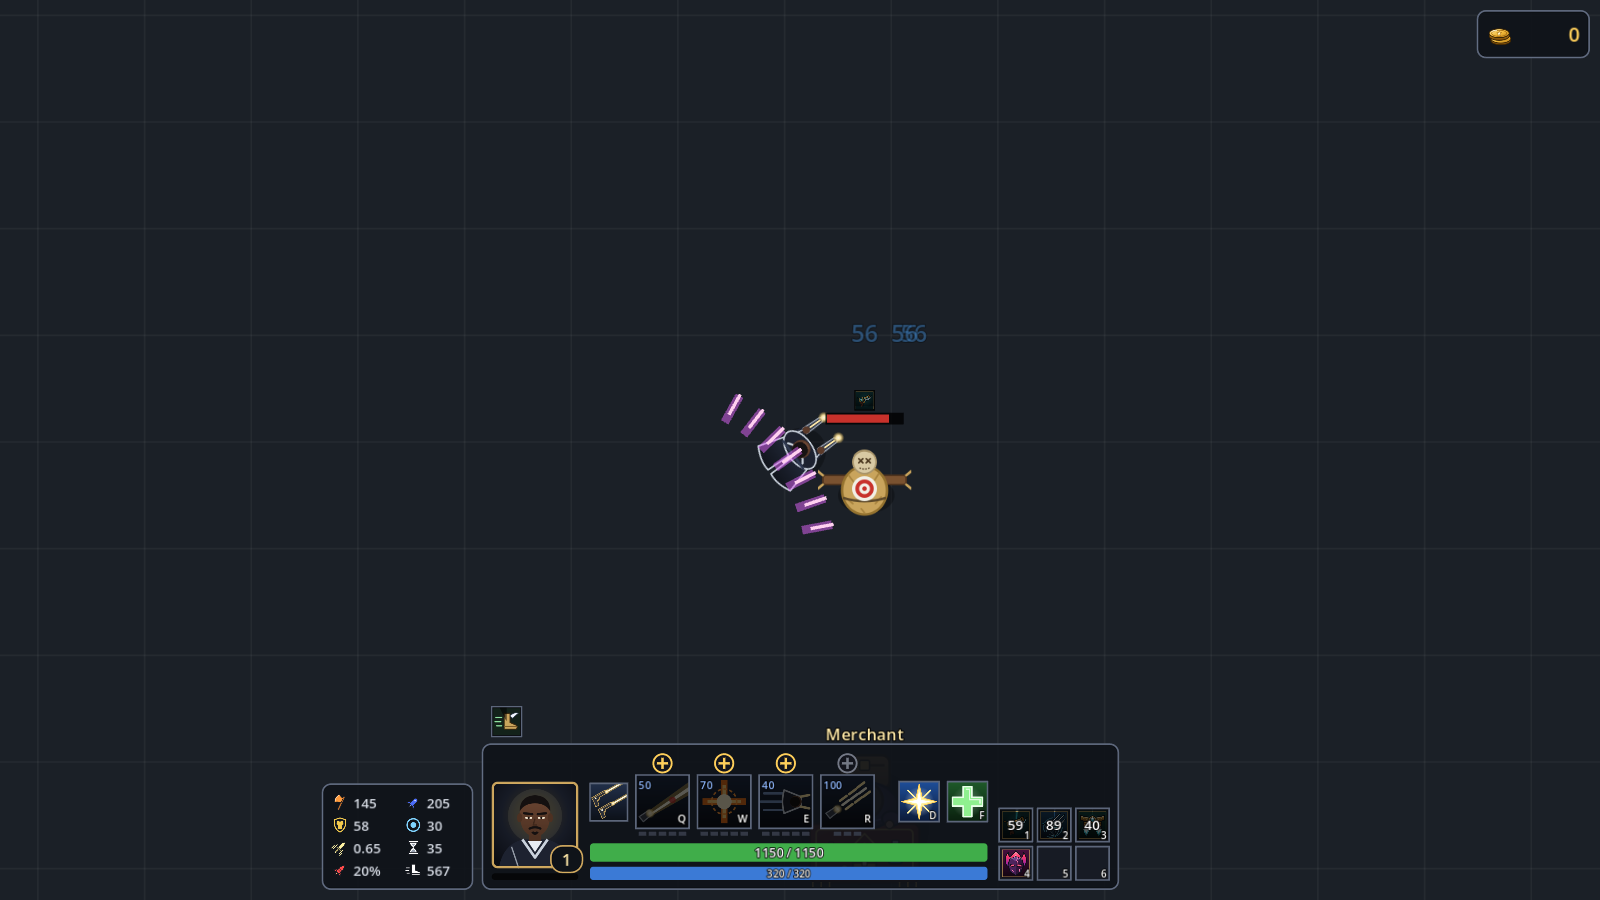
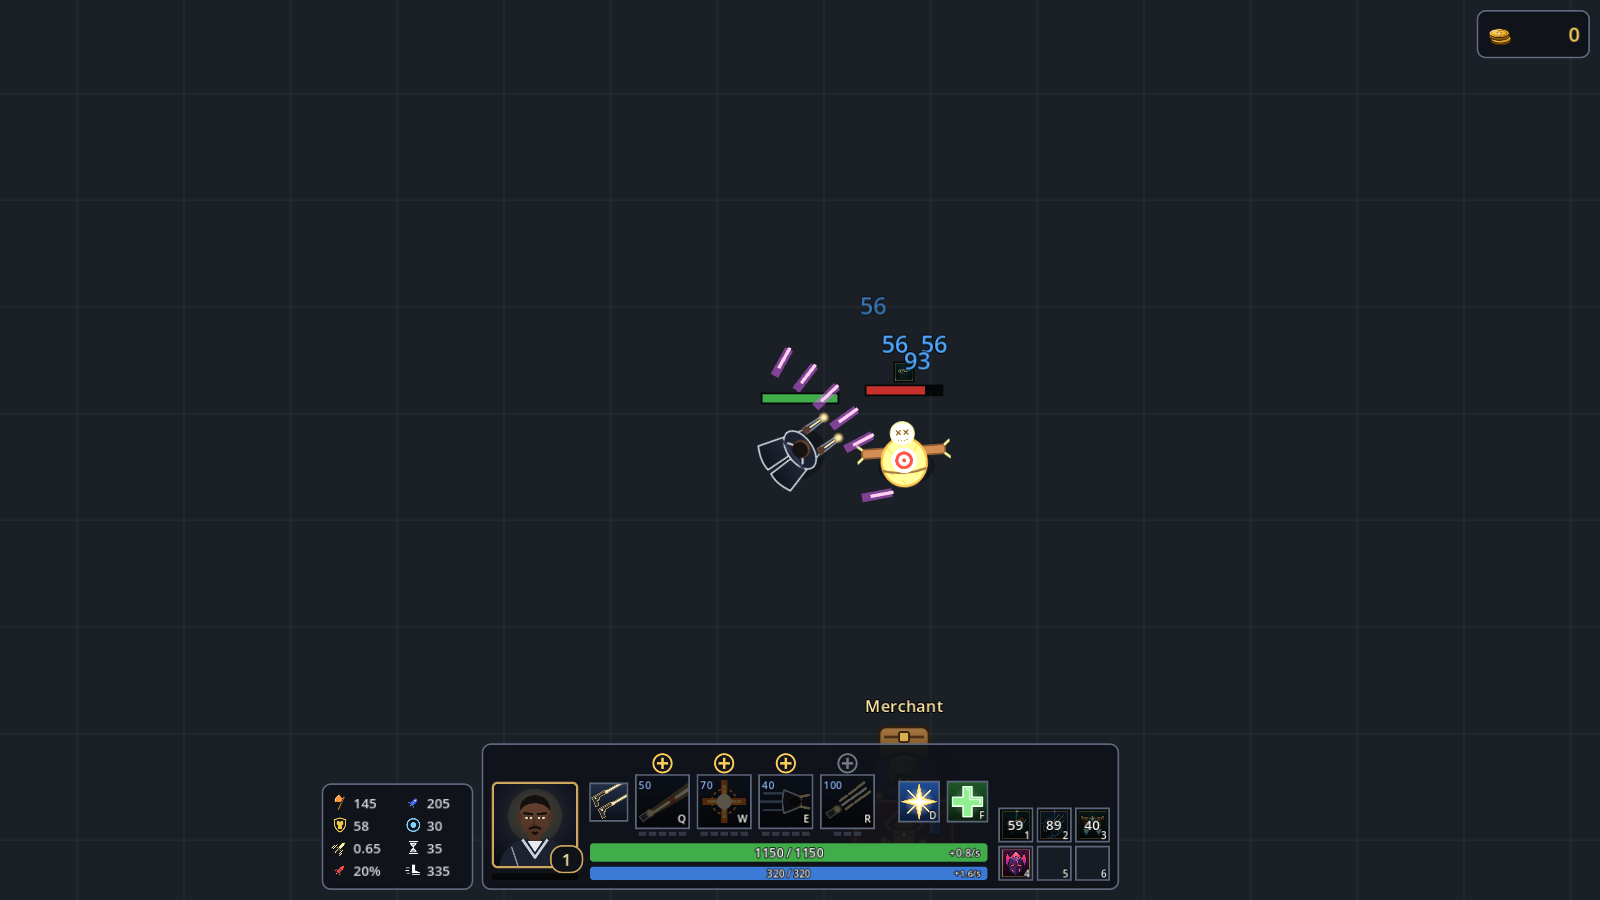
Lucian's HP bar above his head, regen per second on the HUD bars, one health/mana regen stat in the extra table; docs

diff --git a/docs/report/phase4.md b/docs/report/phase4.md
@@ -34,7 +34,7 @@ Your choices during planning:
 | 7 | Space returns the camera to Lucian | **Space** (new action "Center camera on Lucian", rebindable) moves the camera back over Lucian once. Free-cam stays free. |
 | 8 | Stat icons and colors | 19 hand-drawn stat icons (`assets/art/stats/`), with your 8 designs and colors for the main stats. The stats panel shows **icon + amount**. Item cards show **icon → amount (in the stat color) → name**. AP scalings in skill tooltips are now blue to match. |
 | 9 | Stat description on hover | Hover a stat for **1 s**: a card with its icon, name, current value and what it does. |
-| 10 | Ctrl + C toggles, hold C for extra stats | **Ctrl + C** shows or hides the main table: AD, AP, Armor, MR, AS, Ability Haste, Crit, MS, two per row like your image. **Holding C** shows the extra table above it: HP / mana regen (per 5 s), heal & shield power, armor / magic pen, life steal, omnivamp, attack range, tenacity. |
+| 10 | Ctrl + C toggles, hold C for extra stats | **Ctrl + C** shows or hides the main table: AD, AP, Armor, MR, AS, Ability Haste, Crit, MS, two per row like your image. **Holding C** shows the extra table above it: health / mana regen (one cell, per second), heal & shield power, armor / magic pen, life steal, omnivamp, attack range, tenacity. |
 | 11 | RFC range ring while Energized | With Rapid Firecannon equipped and the charge at 100, a **light-blue ring** shows its longer reach (675). It disappears when the Energized shot lands (or after 1 s if the target vanishes). |
 | 12 | Summoner spells | **Flash, Ghost, Barrier, Heal, Clarity, Smite** on D and F, each with its own icon, cooldown sweep on the HUD and hover card. Numbers are in the table below. |
 | 13 | Smaller passive icon | The passive is **45 px** (70% of a skill icon), centered on the skill row. |
@@ -54,6 +54,17 @@ Your choices during planning:
 | Smite | 30 s | 450 true damage to the enemy nearest the cursor within 500, and heals 10% of max HP. Refused, at no cost, with no enemy in reach. |
 
 Each spell keeps its own cooldown, also when you move it to the other key. Ability haste doesn't shorten them. Pick the spells in F3+Q → **Lucian** tab → *Summoner spells*; choosing the spell the other key has swaps them.
+
+## Follow-up after your first playtest
+
+| You asked | Built |
+|---|---|
+| Can't move during Rocketbelt; don't dash faster than the rocket | The dash is slower (1000) than the bolts (1500), so they fly ahead. Lucian stands where the dash ends until the bolts land, 0.6 s after use. |
+| Can't move during Galeforce | Lucian stands for 0.25 s after the dash while the missiles leave. |
+| Galeforce missiles should follow a missile trajectory | The 3 missiles leave in a fan, then curve onto the chosen enemy, faster and tighter as they fly, with a trail. |
+| Remove Rocketbelt's move speed | Gone. |
+| HP bar for Lucian; regen per second on the bars | A green HP bar above Lucian's head (shields in white). The HUD's HP and mana bars show "+0.8/s" and "+1.6/s" at the right end. |
+| One regen stat in the extra table | One cell with a heart-and-droplet icon: "0.8 / 1.6" (health / mana per second). The extra table is now 2 × 4. |
 
 ## Choices I made where the request was open
 
@@ -94,10 +105,11 @@ Each spell keeps its own cooldown, also when you move it to the other key. Abili
 | ![Grey plus](phase4/skillbar_0_plus.png) Level 2 with a point: gold + on E, grey on Q (needs level 3) and R, grey with a lock on W (rank not bought); 45 px passive | ![R greys Q/W](phase4/skillbar_1_r_greys_qw.png) R firing: Q and W grey |
 | ![Q greys E](phase4/skillbar_2_q_greys_e.png) Q's cast time: E grey | ![Extra stats](phase4/stats_1_extra.png) Holding C: the extra stats above the main table |
 | ![Stat card](phase4/stats_2_hover.png) Hovering Attack Damage | ![Item card](phase4/stats_3_item_card.png) Item card: icon, amount, name |
-| ![RFC ring](phase4/rfc_ring_0_ready.png) RFC at full charge: the 675 range ring | ![Rocketbelt](phase4/actives_2_rocketbelt.png) Rocketbelt arc |
+| ![RFC ring](phase4/rfc_ring_0_ready.png) RFC at full charge: the 675 range ring | ![Rocketbelt](phase4/actives_2_rocketbelt.png) Rocketbelt arc, flying ahead of Lucian |
 | ![Summoners](phase4/summoners_0_hud_and_picker.png) D/F on the HUD, debug picker | ![Smite](phase4/summoners_3_smite.png) Smite: 450 true damage; Barrier on the HP bar, Ghost and Barrier buffs |
 | ![Summoner card](phase4/summoners_5_card.png) Heal's card; cooldowns on D and F | ![Resolution](phase4/settings_3_graphics.png) Graphics → Resolution |
 | ![Camera away](phase4/camera_0_away.png) Free camera panned away | ![Camera back](phase4/camera_1_back.png) After Space |
+| ![Galeforce](phase4/actives_1_galeforce.png) Follow-up: Galeforce's missiles curving onto the dummy; Lucian's HP bar | ![Regen](phase4/stats_1_extra.png) Follow-up: one regen cell, "+0.8/s" on the HP bar |
 
 ## Known limits
 

diff --git a/docs/ui_design.md b/docs/ui_design.md
@@ -26,7 +26,7 @@
 
 ### Bottom center – Lucian's panel
 - **Portrait** showing the current skin, with the **level number** and an **XP bar**.
-- **HP bar** and **mana bar**.
+- **HP bar** and **mana bar**, each with its regeneration per second at the right end ("+0.8/s").
 - **Skill icons:** Passive, Q, W, E, R. The passive is smaller (45 px, 70% of a 64 px skill icon), centered on the skill row.
   - Cooldown timer and rank dots on each.
   - **Mana cost** shown as a number in the **top-left corner** of each skill icon.
@@ -41,7 +41,7 @@
 ### Buff icons (above the skill bar)
 - **Very small icons** (36 px) in a row just above the HUD panel, starting over the portrait, like LoL.
 - Shows: Blue / Red buff (with timer), current Endless modifier, status effects (slow, stun, burn, etc.).
-- **Phase 3 shows:** potions being drunk, move speed buffs (W, Fervor, Stormrazor, Rocketbelt, and since Phase 4 Ghost and Heal), the Bloodthirster shield, Barrier, and item passive states:
+- **Phase 3 shows:** potions being drunk, move speed buffs (W, Fervor, Stormrazor, and since Phase 4 Ghost and Heal), the Bloodthirster shield, Barrier, and item passive states:
   - **Energized** (only while an Energized item is equipped): the charge 0–100; glows gold at 100.
   - **Kraken Slayer**: the hit count; glows before the 3rd hit.
   - Spellblade ready, Spear of Shojin stacks, Jak'Sho stacks, Archangel's mana charge.
@@ -54,7 +54,7 @@
 ### Stats panel (left of the portrait)
 - Like LoL's: each stat is its **icon + value**, two per row. Main panel: AD | AP, Armor | MR, Attack speed | Ability haste, Crit | Move speed.
 - **Ctrl + C** toggles it on or off.
-- **Hold C** to show the extra stats above it (in its place when it is hidden): HP regen | Mana regen (per 5 s), Heal & shield power | Armor pen, Magic pen | Life steal, Omnivamp | Attack range, Tenacity.
+- **Hold C** to show the extra stats above it (in its place when it is hidden), also 2 × 4: Health / mana regen (one cell, "0.8 / 1.6" per second) | Heal & shield power, Armor pen | Magic pen, Life steal | Omnivamp, Attack range | Tenacity.
 - **Hover a stat** for 1 second: a card with its icon, name, value and what it does.
 
 | Stat | Icon | Color |
@@ -67,8 +67,9 @@
 | Ability haste | hourglass | white |
 | Crit chance | pointed missile | red |
 | Move speed | boot with speed lines | white |
-| Health / HP regen | heart / heart + up arrow | green |
-| Mana / Mana regen | droplet / droplet + up arrow | blue |
+| Health | heart | green |
+| Mana | droplet | blue |
+| Health / mana regen | heart and droplet under an up arrow | green |
 | Heal & shield power | cross over a shield | teal |
 | Armor / Magic pen | arrow through a breastplate / a circle | orange-red / violet |
 | Life steal | fang and a drop of blood | crimson |
@@ -102,6 +103,7 @@ Icons live in `assets/art/stats/`, colors and texts in `src/ui/stat_style.gd`.
 | Mini boss / Boss | Red skull icon (same size as the elite dot) |
 
 ### On the battlefield
+- **Lucian's HP bar** above his head: green, with his shields as a white segment after the HP.
 - **HP bars** above enemies, with a special icon for elites.
 - **Damage numbers:**
 

diff --git a/docs/items.md b/docs/items.md
@@ -282,7 +282,7 @@ The merchant buys items back for **70%** of their cost (**Guardian Angel: 40%**)
 - +45 Attack Damage
 - +20% Critical Strike Chance
 - +250 Health
-- *Active — Cloudburst (90 s cooldown):* Dash a short distance toward the cursor and fire three missiles at the enemy with the lowest health nearby, each dealing 60 (+15% bonus AD) magic damage.
+- *Active — Cloudburst (90 s cooldown):* Dash a short distance toward the cursor and fire three missiles that curve onto the enemy with the lowest health nearby, each dealing 60 (+15% bonus AD) magic damage. You can't move while they leave.
 
 ### Essence Reaver
 
@@ -300,7 +300,7 @@ The merchant buys items back for **70%** of their cost (**Guardian Angel: 40%**)
 - +60 Ability Power
 - +300 Health
 - +15 Ability Haste
-- *Active — Supersonic (40 s cooldown):* Dash toward the cursor and fire an arc of bolts that deal 100 (+10% AP) magic damage, then gain 75% move speed that fades over 2 s.
+- *Active — Supersonic (40 s cooldown):* Dash toward the cursor and fire an arc of bolts that fly ahead of you, dealing 100 (+10% AP) magic damage. You can't move until they land.
 
 ### Spirit Visage
 
@@ -369,8 +369,8 @@ in Phase 4 (`docs/implementation/phase4.md`).
 | Muramana | AD from 2.5% max mana. Skill hits add 3% max mana physical; attacks 1.5%. |
 | Jak'Sho | Each second in combat (dealt damage in the last 3 s): +5% armor and MR, up to 30%. |
 | Hextech Gunblade | Active (key 1–6): the enemy nearest the cursor within 700 takes 175 (+30% AP) magic and is slowed for 2 s. Refused with no enemy in range. |
-| Galeforce | Active: 200-unit dash toward the cursor, then 3 missiles at the lowest-health enemy within 750, 60 (+15% bonus AD) magic each. |
-| Hextech Rocketbelt | Active: 275-unit dash, an arc of 7 bolts forward that fly 900 from where Lucian started (each enemy hit once) for 100 (+10% AP) magic, then +75% move speed fading over 2 s. |
+| Galeforce | Active: 200-unit dash toward the cursor, then 3 missiles at the lowest-health enemy within 750, 60 (+15% bonus AD) magic each. The missiles leave in a fan and curve onto it, faster and tighter as they fly. Lucian can't move for 0.25 s after the dash. |
+| Hextech Rocketbelt | Active: 275-unit dash (speed 1000, slower than the bolts' 1500), an arc of 7 bolts forward that fly 900 from where Lucian started (each enemy hit once) for 100 (+10% AP) magic. Lucian can't move until the bolts land (0.6 s after use). No move speed. |
 
 Actives share one cooldown per item (every copy), which keeps running after selling. The debug
 "No cooldowns" cheat also refreshes item cooldowns that are already running.

diff --git a/docs/implementation/phase4.md b/docs/implementation/phase4.md
@@ -860,6 +860,13 @@ Everything in the plan is in place, one commit per task (Tasks 0–9), then the 
   - New: Flash's exact landing spot, Rocketbelt's upper bound, no summoners mid-dash, the Barrier buff and card, the "+" states.
   - Effects spawned in the summoner, casting and item-active tests now go into an auto-freed node.
 
+### Follow-up after the first playtest
+- **Rocketbelt:** the dash is slower (1000) than the bolts (1500), so they fly ahead. Lucian can't move until the bolts land: `lock_cast(ROCKETBELT_LOCK)`, which starts counting once the dash ends, fills the rest of the bolts' 0.6 s flight. The +75% move speed is gone.
+- **Galeforce:** Lucian can't move for 0.25 s after the dash. The missiles are `HomingMissile`s (`src/combat/homing_missile.gd`): they leave in a fan (±1 rad around the target's direction) at 500 speed, then curve onto the target. They speed up to 2200 and turn tighter the longer they fly (3 rad/s plus 18 rad/s per second), leaving a fading trail.
+- **Lucian's HP bar** (`src/lucian/lucian_health_bar.gd`) is a child of his body, 62 px above him, with the shields in white.
+- **Regen per second** shows at the right end of the HUD's HP and mana bars.
+- **One regen stat:** the extra table's `regen` cell shows "health / mana" per second with one icon (`assets/art/stats/regen.svg`); the separate `hp_regen` / `mana_regen` stat keys and icons are gone. The extra table is 2 × 4, like the main one.
+
 ### Running the checks
 
 ```

diff --git a/docs/lucian_game_design.md b/docs/lucian_game_design.md
@@ -36,7 +36,7 @@
 | P | Open backpack (pauses the game) |
 | ESC | Open menu: resume, settings, leave stage, exit (pauses the game) |
 | Ctrl + C | Toggle the stats panel |
-| Hold C | Show the extra stats (regen, heal & shield power, penetration, life steal, omnivamp, range, tenacity) |
+| Hold C | Show the extra stats (health / mana regen, heal & shield power, penetration, life steal, omnivamp, range, tenacity) |
 | Y | Toggle camera between free-cam and Lucian cam (follows Lucian). Default: free-cam |
 | Space | Move the camera back over Lucian once (free-cam stays free) |
 
